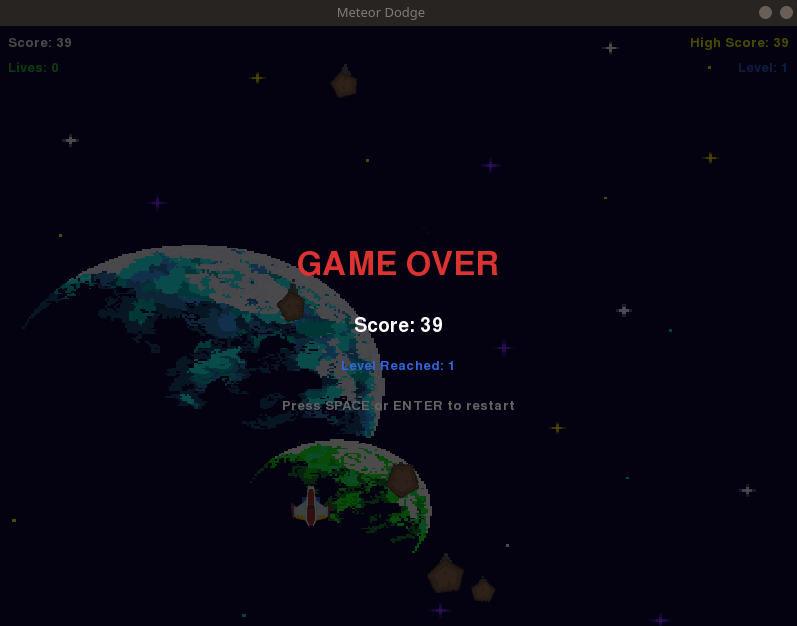
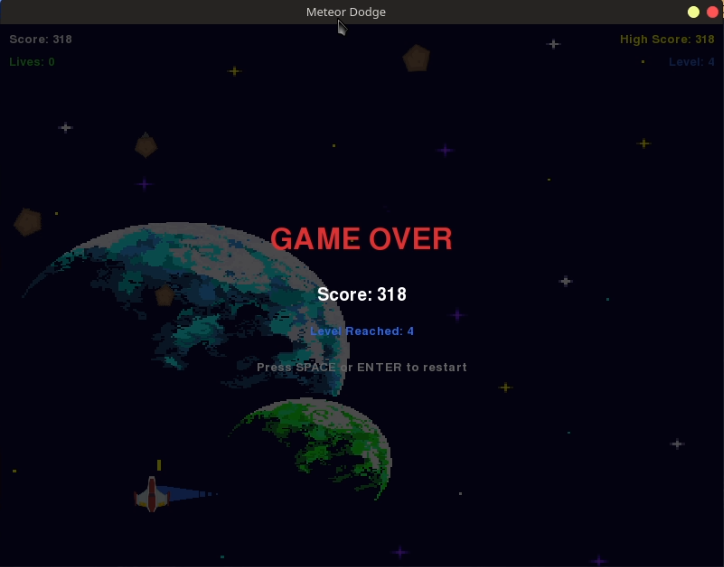
Actualizar README.md

diff --git a/README.md b/README.md
@@ -66,10 +66,8 @@ deactivate
 
 ## Screenshots
 
-![Gameplay](screenshots/meteor_dodge_01.png)
-![Gameplay 2](screenshots/meteor_dodge_02.png)
-![Gameplay 3](screenshots/meteor_dodge_03.png)
-![Gameplay 4](screenshots/meteor_dodge_04.png)
+![Shooting at meteors](screenshots/meteor_dodge_01.png)
+![Game over screen](screenshots/meteor_dodge_02.png)
 
 ## Project Structure
 
@@ -82,9 +80,7 @@ meteor_dodge/
 │   └── meteor.png
 ├── screenshots/          # Example screenshots
 │   ├── meteor_dodge_01.png
-│   ├── meteor_dodge_02.png
-│   ├── meteor_dodge_03.png
-│   └── meteor_dodge_04.png
+│   └── meteor_dodge_02.png
 ├── requirements.txt      # Dependencies
 ├── .gitignore            # Excludes cache and venv
 └── README.md             # This file
